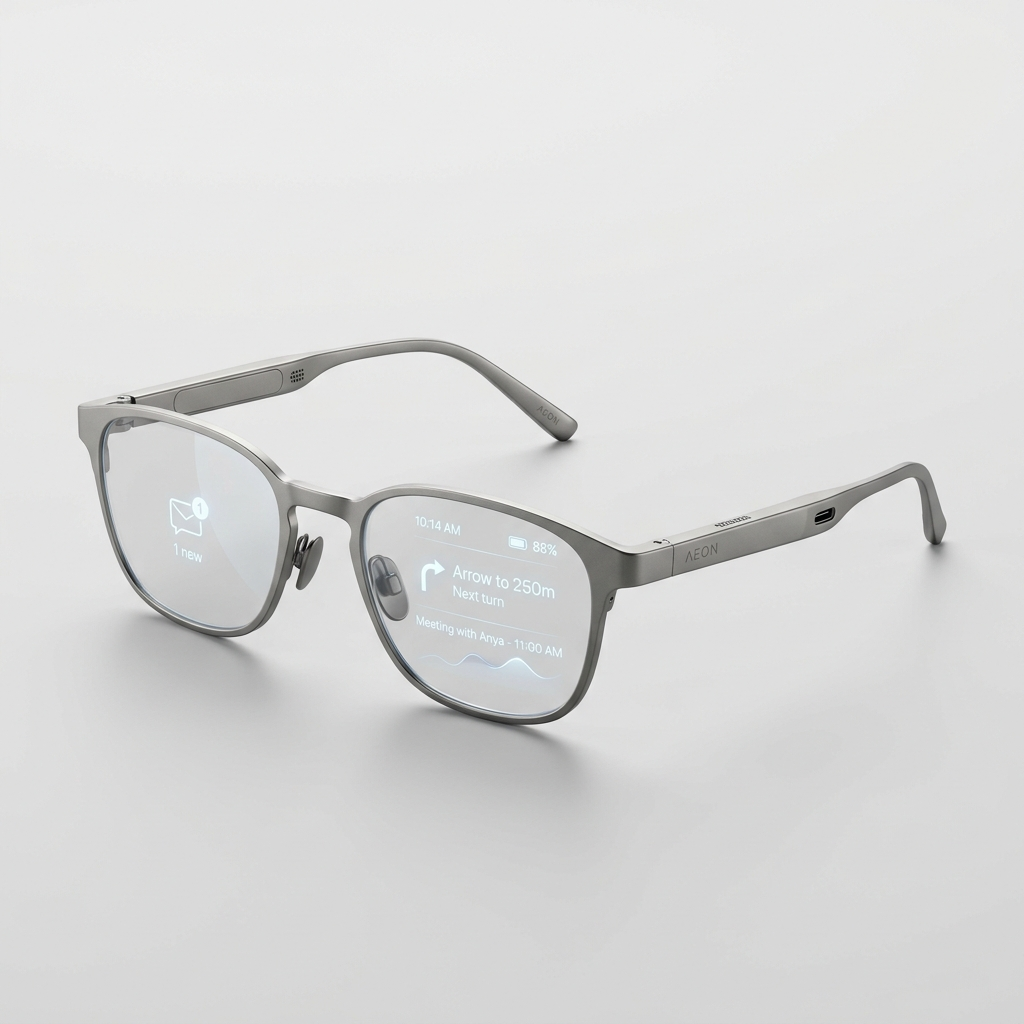
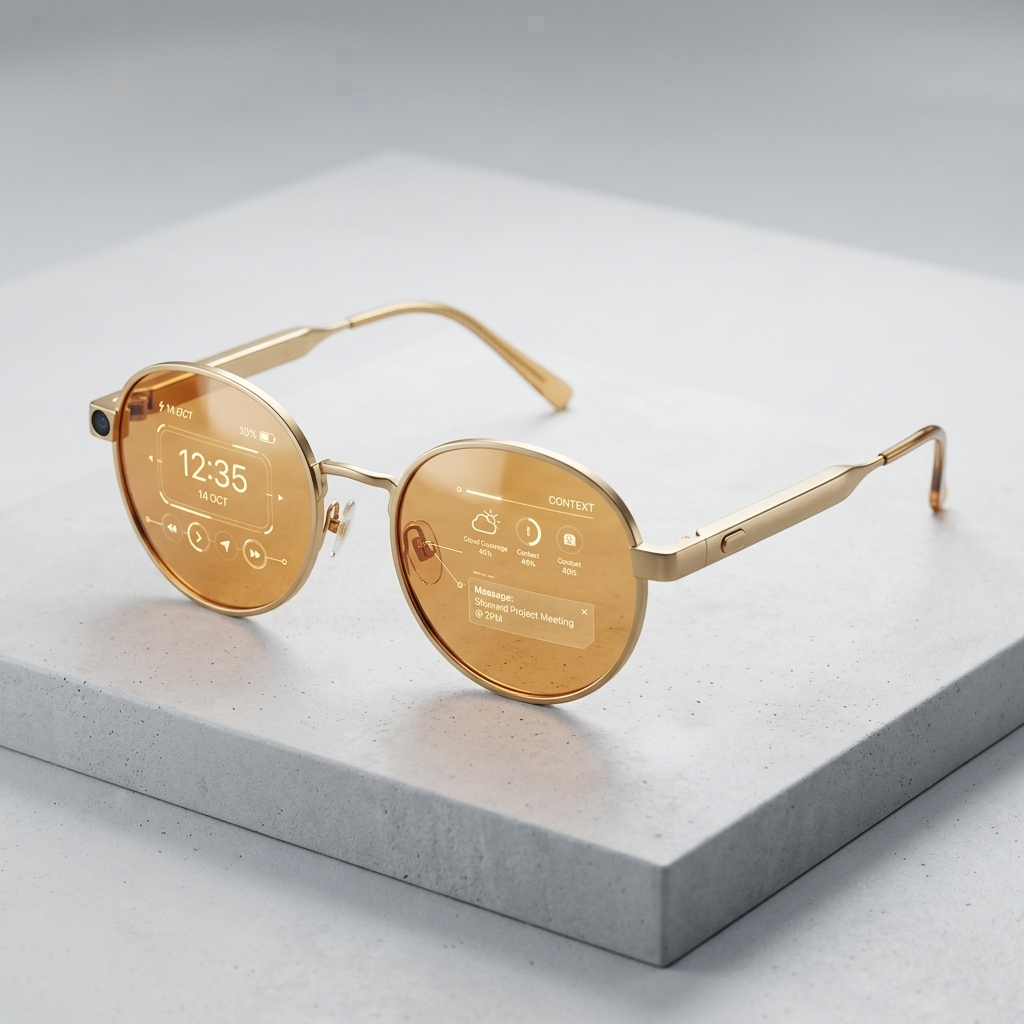
feat: generate new UI images matched exactly to original round gold frame glasses and update SVG diagram

diff --git a/dist/index.html b/dist/index.html
@@ -75,17 +75,18 @@
           <div class="cabin-silhouette-container" aria-label="Esquema óptico de la lente Lucent">
             <svg class="cabin-svg" viewBox="0 0 540 360" fill="none" xmlns="http://www.w3.org/2000/svg" role="img" aria-label="Silueta de lente adaptativa Lucent">
               <rect x="20" y="40" width="500" height="280" rx="6" stroke="#ffffff" stroke-width="1" />
-              <rect x="70" y="110" width="170" height="130" rx="24" stroke="#ffffff" stroke-width="1" />
-              <rect x="300" y="110" width="170" height="130" rx="24" stroke="#ffffff" stroke-width="1" />
-              <path d="M 240 145 C 255 138, 285 138, 300 145" stroke="#ffffff" stroke-width="1" />
-              <line x1="30" y1="135" x2="70" y2="135" stroke="#ffffff" stroke-width="1" />
-              <line x1="470" y1="135" x2="510" y2="135" stroke="#ffffff" stroke-width="1" />
-              <line x1="90" y1="130" x2="220" y2="220" stroke="#ffffff" stroke-width="1" stroke-dasharray="3 3" />
-              <line x1="320" y1="130" x2="450" y2="220" stroke="#ffffff" stroke-width="1" stroke-dasharray="3 3" />
+              <!-- Lentes redondas iguales a las gafas originales -->
+              <circle cx="155" cy="175" r="65" stroke="#ffffff" stroke-width="1" />
+              <circle cx="385" cy="175" r="65" stroke="#ffffff" stroke-width="1" />
+              <path d="M 220 165 C 240 155, 300 155, 320 165" stroke="#ffffff" stroke-width="1" />
+              <line x1="30" y1="165" x2="90" y2="165" stroke="#ffffff" stroke-width="1" />
+              <line x1="450" y1="165" x2="510" y2="165" stroke="#ffffff" stroke-width="1" />
+              <line x1="110" y1="140" x2="200" y2="210" stroke="#ffffff" stroke-width="1" stroke-dasharray="3 3" />
+              <line x1="340" y1="140" x2="430" y2="210" stroke="#ffffff" stroke-width="1" stroke-dasharray="3 3" />
               <line x1="20" y1="20" x2="520" y2="20" stroke="#ffffff" stroke-width="1" stroke-opacity="0.4" />
               <line x1="20" y1="16" x2="20" y2="24" stroke="#ffffff" stroke-width="1" />
               <line x1="520" y1="16" x2="520" y2="24" stroke="#ffffff" stroke-width="1" />
-              <text x="270" y="16" text-anchor="middle" fill="#ffffff" font-family="Instrument Sans" font-size="10" letter-spacing="1">LENS GEOMETRY / 48-22 ADAPTIVE</text>
+              <text x="270" y="16" text-anchor="middle" fill="#ffffff" font-family="Instrument Sans" font-size="10" letter-spacing="1">ROUND LENS GEOMETRY / GOLD WIRE FRAME</text>
             </svg>
           </div>
 

diff --git a/index.html b/index.html
@@ -74,17 +74,18 @@
           <div class="cabin-silhouette-container" aria-label="Esquema óptico de la lente Lucent">
             <svg class="cabin-svg" viewBox="0 0 540 360" fill="none" xmlns="http://www.w3.org/2000/svg" role="img" aria-label="Silueta de lente adaptativa Lucent">
               <rect x="20" y="40" width="500" height="280" rx="6" stroke="#ffffff" stroke-width="1" />
-              <rect x="70" y="110" width="170" height="130" rx="24" stroke="#ffffff" stroke-width="1" />
-              <rect x="300" y="110" width="170" height="130" rx="24" stroke="#ffffff" stroke-width="1" />
-              <path d="M 240 145 C 255 138, 285 138, 300 145" stroke="#ffffff" stroke-width="1" />
-              <line x1="30" y1="135" x2="70" y2="135" stroke="#ffffff" stroke-width="1" />
-              <line x1="470" y1="135" x2="510" y2="135" stroke="#ffffff" stroke-width="1" />
-              <line x1="90" y1="130" x2="220" y2="220" stroke="#ffffff" stroke-width="1" stroke-dasharray="3 3" />
-              <line x1="320" y1="130" x2="450" y2="220" stroke="#ffffff" stroke-width="1" stroke-dasharray="3 3" />
+              <!-- Lentes redondas iguales a las gafas originales -->
+              <circle cx="155" cy="175" r="65" stroke="#ffffff" stroke-width="1" />
+              <circle cx="385" cy="175" r="65" stroke="#ffffff" stroke-width="1" />
+              <path d="M 220 165 C 240 155, 300 155, 320 165" stroke="#ffffff" stroke-width="1" />
+              <line x1="30" y1="165" x2="90" y2="165" stroke="#ffffff" stroke-width="1" />
+              <line x1="450" y1="165" x2="510" y2="165" stroke="#ffffff" stroke-width="1" />
+              <line x1="110" y1="140" x2="200" y2="210" stroke="#ffffff" stroke-width="1" stroke-dasharray="3 3" />
+              <line x1="340" y1="140" x2="430" y2="210" stroke="#ffffff" stroke-width="1" stroke-dasharray="3 3" />
               <line x1="20" y1="20" x2="520" y2="20" stroke="#ffffff" stroke-width="1" stroke-opacity="0.4" />
               <line x1="20" y1="16" x2="20" y2="24" stroke="#ffffff" stroke-width="1" />
               <line x1="520" y1="16" x2="520" y2="24" stroke="#ffffff" stroke-width="1" />
-              <text x="270" y="16" text-anchor="middle" fill="#ffffff" font-family="Instrument Sans" font-size="10" letter-spacing="1">LENS GEOMETRY / 48-22 ADAPTIVE</text>
+              <text x="270" y="16" text-anchor="middle" fill="#ffffff" font-family="Instrument Sans" font-size="10" letter-spacing="1">ROUND LENS GEOMETRY / GOLD WIRE FRAME</text>
             </svg>
           </div>
 
